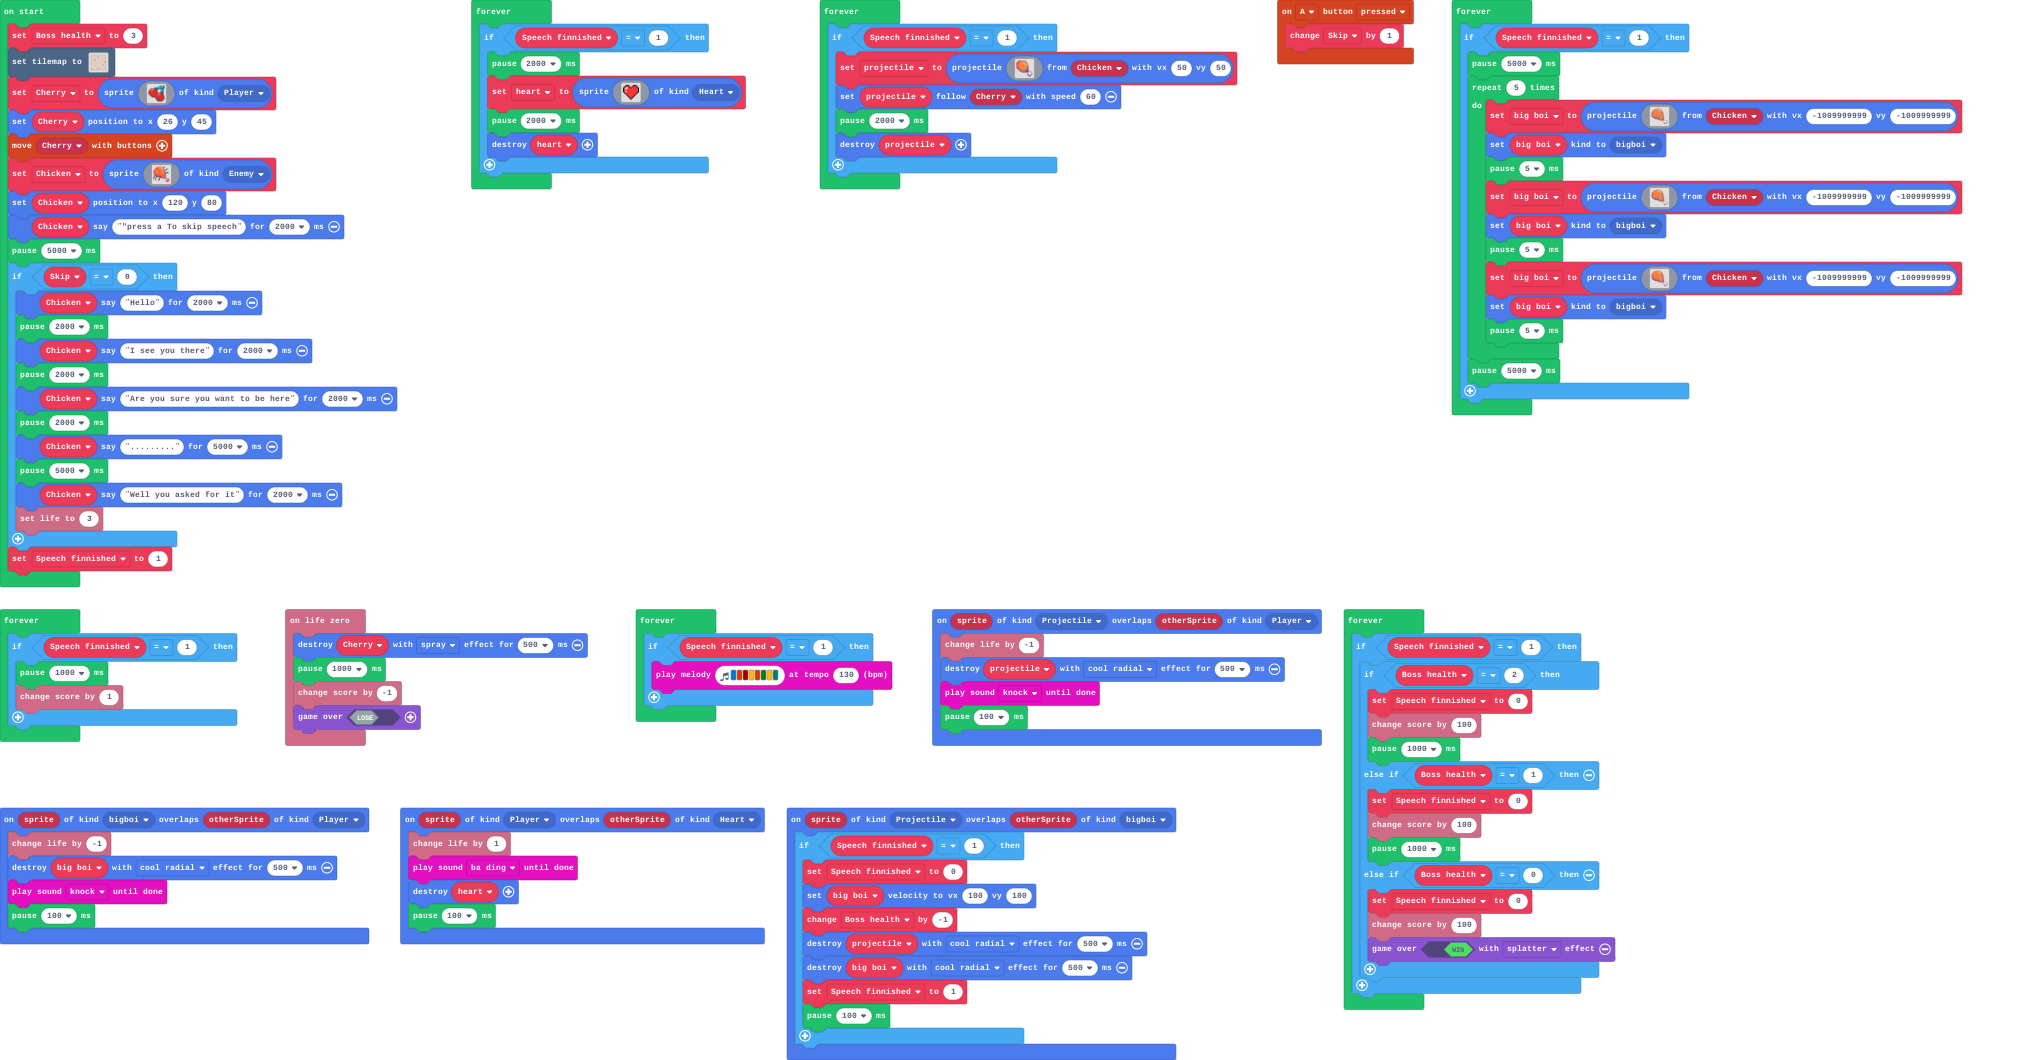
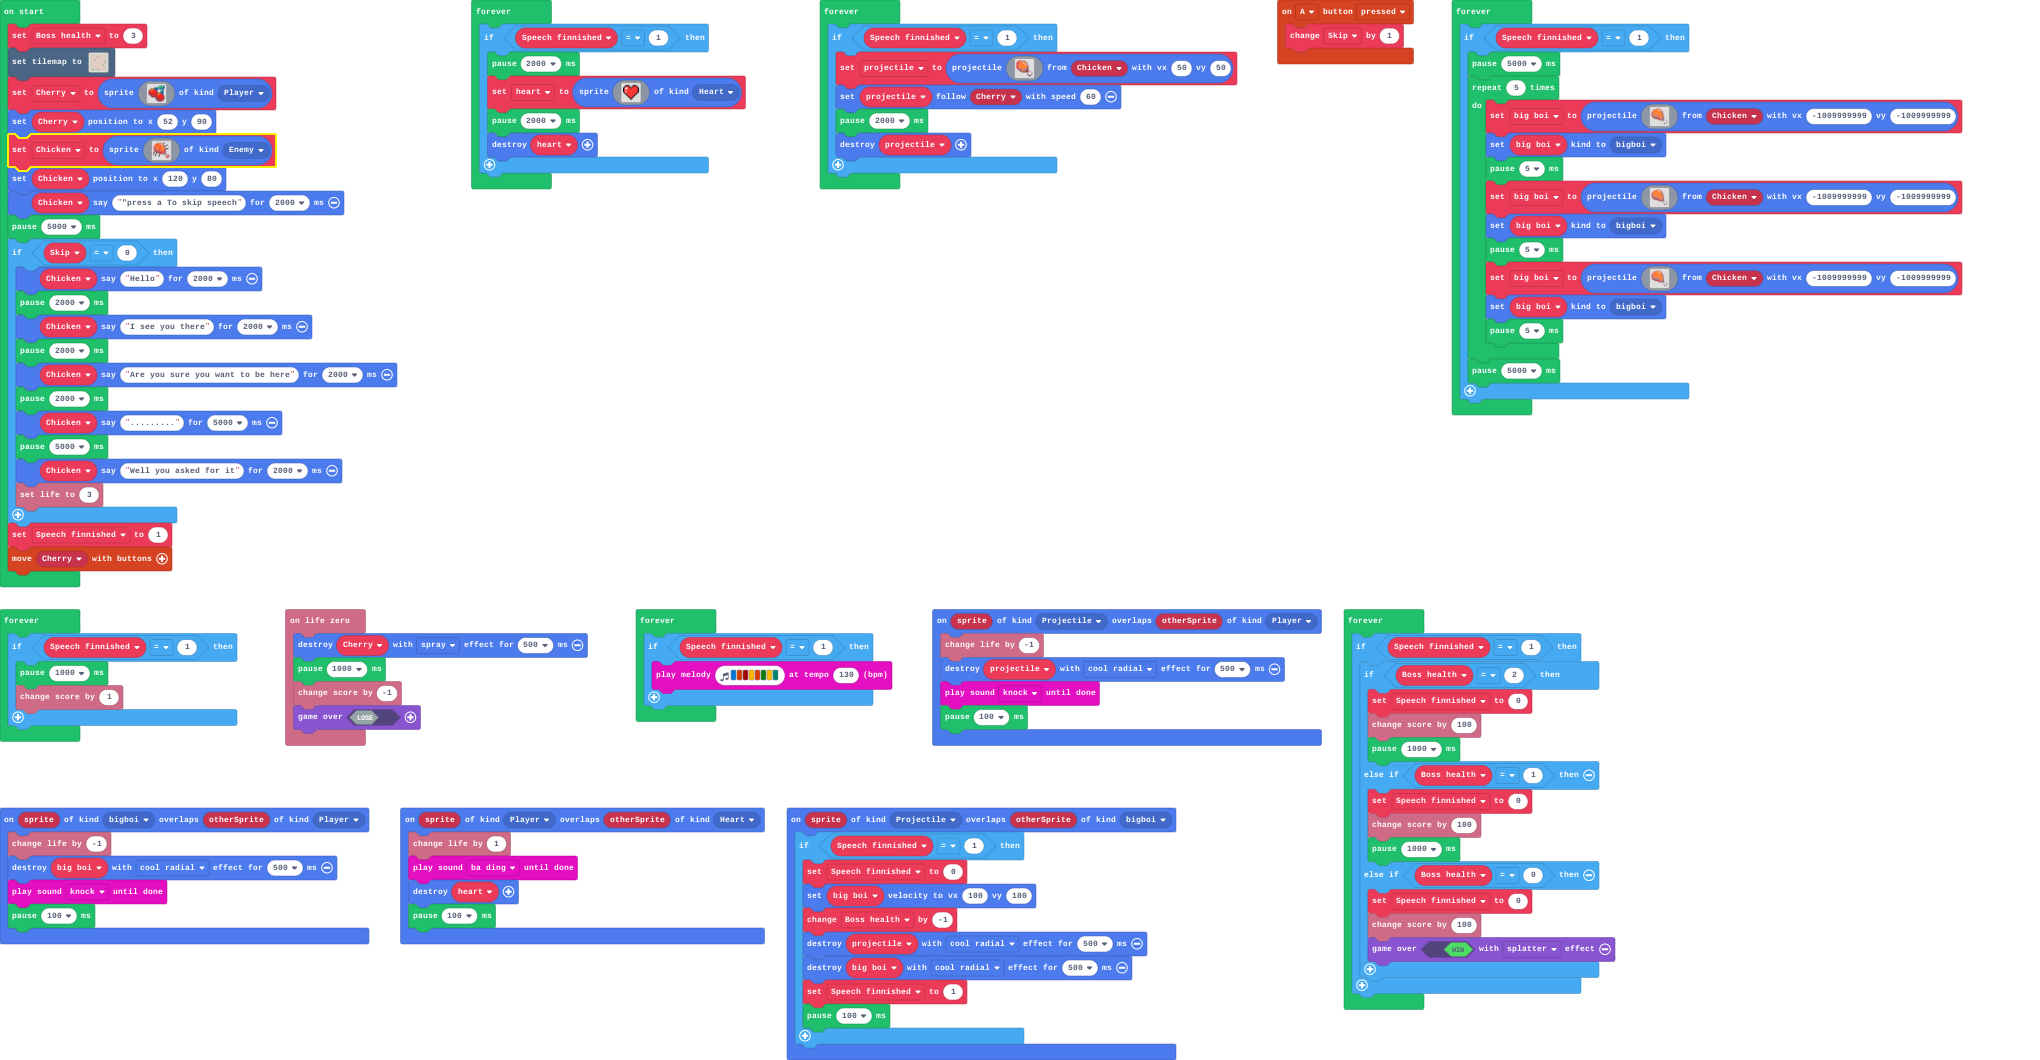
Update main.blocks, main.ts

Changed region(s): [[0.0, 0.1245, 0.2162, 0.5604]]

diff --git a/main.ts b/main.ts
@@ -66,8 +66,7 @@ Cherry = sprites.create(img`
     . . . . . . . . c e 2 2 2 2 c . 
     . . . . . . . . . c c c c c . . 
     `, SpriteKind.Player)
-Cherry.setPosition(26, 45)
-controller.moveSprite(Cherry)
+Cherry.setPosition(52, 90)
 let Chicken = sprites.create(img`
     ..........bbbbbb.....f..........
     .......bbb444444bb..ff..........
@@ -118,6 +117,7 @@ if (Skip == 0) {
     info.setLife(3)
 }
 Speech_finnished = 1
+controller.moveSprite(Cherry)
 forever(function () {
     if (Speech_finnished == 1) {
         pause(2000)
